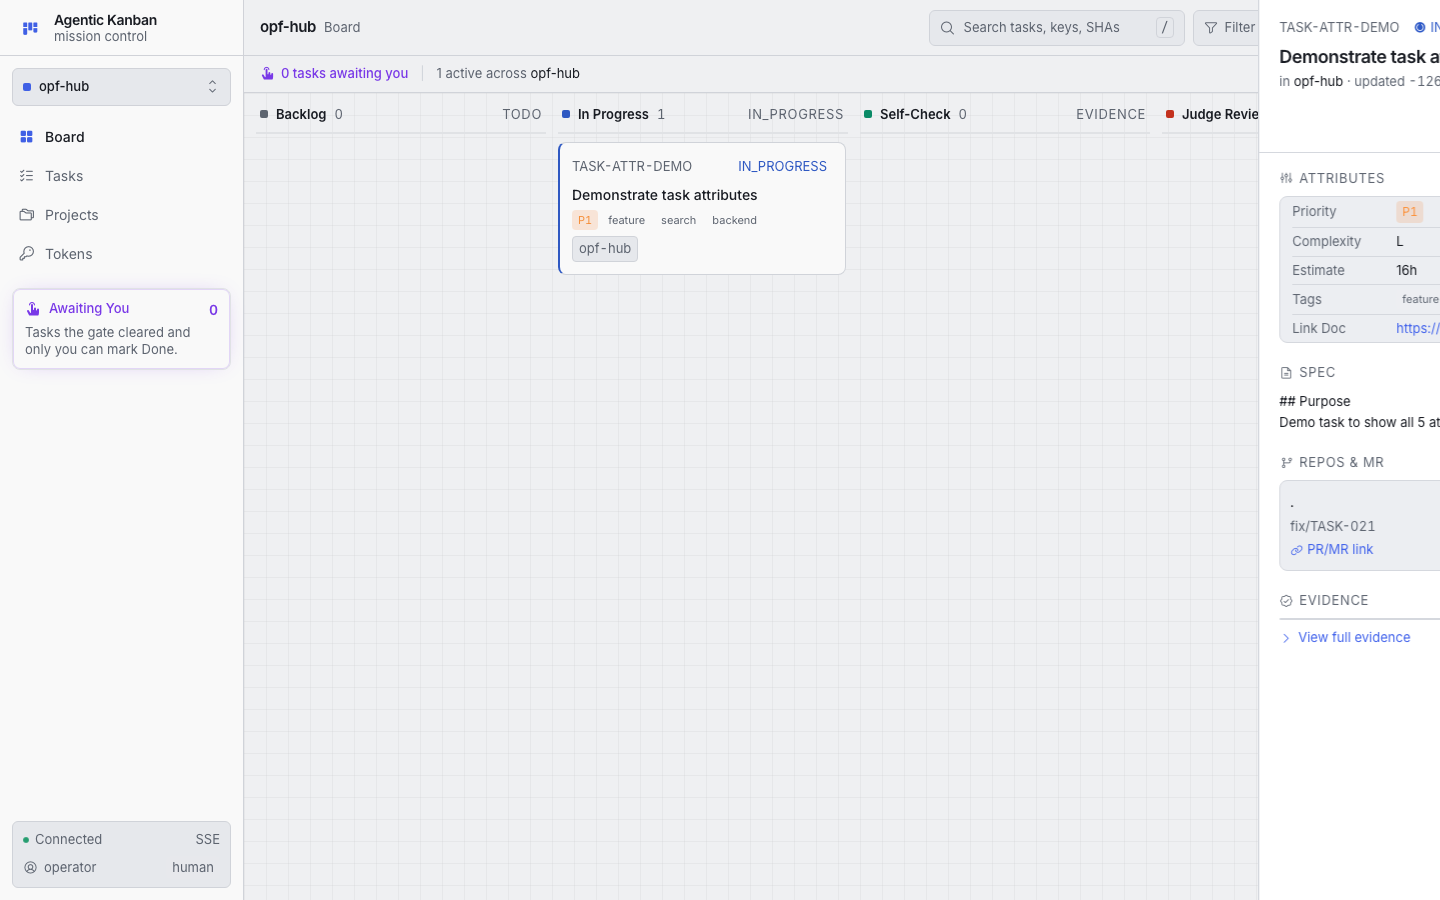
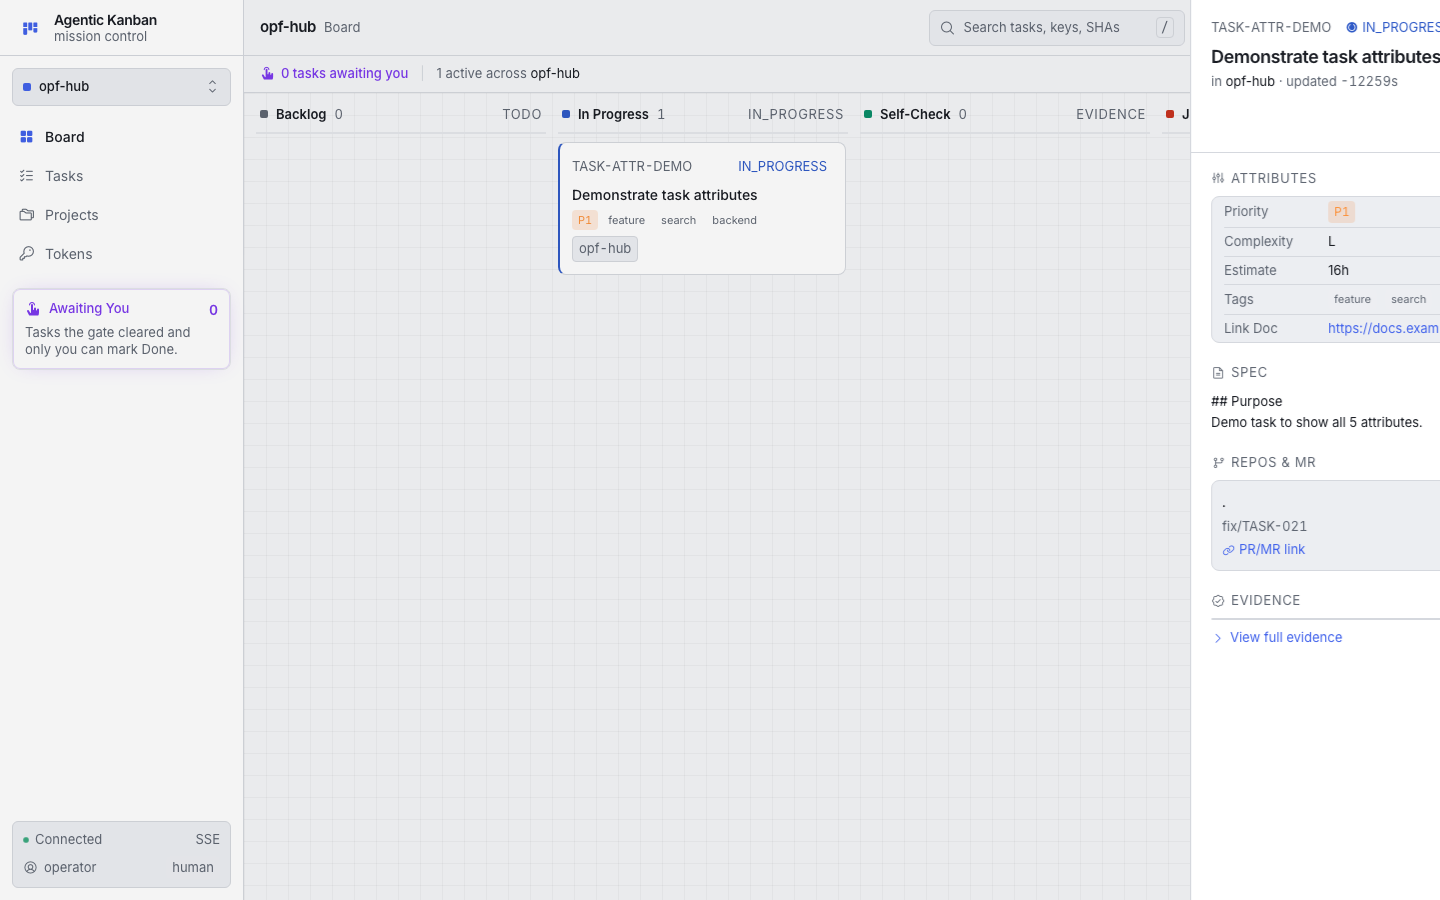
fix(TASK-021): real MCP-client tests for task.create/task.update, MCP example, honest transcript
- mcp-server.test.ts: new describe 'TASK-021 AC12' — 3 real MCP SDK client
  tests: create-with-attributes persists (response + DB row), update patches
  only requested fields (state untouched), invalid enum P9 rejected with no
  persistence.
- examples/task-attributes/example-mcp-client.mjs: rewritten as a real MCP
  client (@modelcontextprotocol/sdk StreamableHTTPClientTransport) calling
  task.create/task.update; README points at the runnable script.
- docs/api/TASK-021/agent-transcript.md: removed false claim about
  mcp-server.test.ts; section 4 now cites the real new tests with captured
  vitest output.
- commit previously-uncommitted updated screenshots (detail-attributes-view,
  detail-drawer-priority-tags).

diff --git a/server/src/mcp/mcp-server.test.ts b/server/src/mcp/mcp-server.test.ts
@@ -140,6 +140,153 @@ describe('AC10: implementer calling evidence.submit returns role error', () => {
   })
 })
 
+describe('TASK-021 AC12: task attributes via real MCP client (task.create + task.update)', () => {
+  const attrKey = 'TASK-ATTR-1'
+
+  beforeEach(() => {
+    // Clean slate: remove the attribute task between tests.
+    db.prepare(`DELETE FROM task WHERE key = ?`).run(attrKey)
+  })
+
+  it('task.create persists all 5 attributes (tool response + DB row)', async () => {
+    const c = await makeClient(tokens.human.secret)
+    try {
+      const res = await c.client.callTool({
+        name: 'task.create',
+        arguments: {
+          project: 'test-project',
+          key: attrKey,
+          title: 'Attribute task created via MCP',
+          priority: 'P1',
+          complexity: 'L',
+          estimate_hours: 16,
+          tags: ['feature', 'search', 'backend'],
+          link_document: 'https://docs.example.com/search-spec',
+        },
+      })
+      expect(res.isError).toBeFalsy()
+      const created = JSON.parse((res.content as any)[0].text) as Record<string, unknown>
+      expect(created.priority).toBe('P1')
+      expect(created.complexity).toBe('L')
+      expect(created.estimate_hours).toBe(16)
+      expect(JSON.parse(created.tags as string)).toEqual(['feature', 'search', 'backend'])
+      expect(created.link_document).toBe('https://docs.example.com/search-spec')
+
+      // Persistence check straight from the DB — not just the tool's echo.
+      const row = db
+        .prepare(`SELECT priority, complexity, estimate_hours, tags, link_document FROM task WHERE key = ?`)
+        .get(attrKey) as {
+          priority: string; complexity: string; estimate_hours: number
+          tags: string; link_document: string
+        }
+      expect(row.priority).toBe('P1')
+      expect(row.complexity).toBe('L')
+      expect(row.estimate_hours).toBe(16)
+      expect(JSON.parse(row.tags)).toEqual(['feature', 'search', 'backend'])
+      expect(row.link_document).toBe('https://docs.example.com/search-spec')
+    } finally {
+      await closeClient(c)
+    }
+  })
+
+  it('task.update changes attributes and leaves the others untouched', async () => {
+    const c = await makeClient(tokens.human.secret)
+    try {
+      // Seed via MCP task.create.
+      const createRes = await c.client.callTool({
+        name: 'task.create',
+        arguments: {
+          project: 'test-project',
+          key: attrKey,
+          title: 'Attribute task to update via MCP',
+          priority: 'P2',
+          complexity: 'S',
+          estimate_hours: 4,
+          tags: ['initial'],
+          link_document: 'https://docs.example.com/initial',
+        },
+      })
+      expect(createRes.isError).toBeFalsy()
+
+      // Update only priority + tags through MCP task.update.
+      const updateRes = await c.client.callTool({
+        name: 'task.update',
+        arguments: {
+          project: 'test-project',
+          key: attrKey,
+          priority: 'P0',
+          tags: ['urgent', 'initial'],
+        },
+      })
+      expect(updateRes.isError).toBeFalsy()
+      const updated = JSON.parse((updateRes.content as any)[0].text) as Record<string, unknown>
+      expect(updated.priority).toBe('P0')
+      expect(JSON.parse(updated.tags as string)).toEqual(['urgent', 'initial'])
+
+      // DB row: patched fields changed, the rest preserved.
+      const row = db
+        .prepare(`SELECT priority, complexity, estimate_hours, tags, link_document, state FROM task WHERE key = ?`)
+        .get(attrKey) as {
+          priority: string; complexity: string; estimate_hours: number
+          tags: string; link_document: string; state: string
+        }
+      expect(row.priority).toBe('P0')
+      expect(JSON.parse(row.tags)).toEqual(['urgent', 'initial'])
+      expect(row.complexity).toBe('S')
+      expect(row.estimate_hours).toBe(4)
+      expect(row.link_document).toBe('https://docs.example.com/initial')
+      // task.update must never touch state.
+      expect(row.state).toBe('TODO')
+    } finally {
+      await closeClient(c)
+    }
+  })
+
+  it('task.update rejects an invalid priority enum and persists nothing', async () => {
+    const c = await makeClient(tokens.human.secret)
+    try {
+      const createRes = await c.client.callTool({
+        name: 'task.create',
+        arguments: {
+          project: 'test-project',
+          key: attrKey,
+          title: 'Attribute task for invalid-enum test',
+          priority: 'P3',
+        },
+      })
+      expect(createRes.isError).toBeFalsy()
+
+      // Invalid enum: zod inputSchema must reject 'P9'. Depending on SDK
+      // behavior this is either a protocol InvalidParams error (callTool
+      // rejects) or an isError tool result — both count as rejection, but
+      // it must be rejected and the message must say why.
+      let rejected = false
+      let message = ''
+      try {
+        const res = await c.client.callTool({
+          name: 'task.update',
+          arguments: { project: 'test-project', key: attrKey, priority: 'P9' },
+        })
+        if (res.isError) {
+          rejected = true
+          message = (res.content as Array<{ text: string }>).map((x) => x.text).join(' ')
+        }
+      } catch (err) {
+        rejected = true
+        message = err instanceof Error ? err.message : String(err)
+      }
+      expect(rejected).toBe(true)
+      expect(message).toMatch(/invalid/i)
+
+      // Priority must be unchanged in the DB.
+      const row = db.prepare(`SELECT priority FROM task WHERE key = ?`).get(attrKey) as { priority: string }
+      expect(row.priority).toBe('P3')
+    } finally {
+      await closeClient(c)
+    }
+  })
+})
+
 describe('AC9: full happy-path lifecycle through tools', () => {
   // Each step in the lifecycle uses a fresh Client with the correct role's token.
   // The lifecycle is: TODO → IN_PROGRESS → IMPLEMENTED → SELF_CHECK_PASSED → JUDGE_PASSED.

diff --git a/docs/api/TASK-021/agent-transcript.md b/docs/api/TASK-021/agent-transcript.md
@@ -114,16 +114,49 @@ against a live deployment for integration testing.
 
 ---
 
-## 4. MCP tool verification (via vitest)
+## 4. MCP leg — real MCP-client session via vitest
 
-The MCP `task.create` and `task.update` tools are tested through the HTTP layer
-in `task-attributes.test.ts`:
-- POST `/api/tasks` → `handleCreateTask` → `insertTask` with attributes
-- PATCH `/api/tasks/:key` → `handleUpdateTask` → `updateTaskAttributes`
+**File**: `server/src/mcp/mcp-server.test.ts`, describe block
+`TASK-021 AC12: task attributes via real MCP client (task.create + task.update)`.
 
-MCP tool registration verified in `server/src/mcp/mcp-server.test.ts`:
-- `task.create` input schema includes priority, complexity, estimate_hours, tags, link_document
-- `task.update` tool is registered and callable
+These tests spin up the real MCP server (Streamable HTTP, bearer auth) and drive
+it with the SDK's `Client` + `StreamableHTTPClientTransport` — a genuine MCP
+session, not the HTTP API:
+
+1. **`task.create persists all 5 attributes (tool response + DB row)`** —
+   calls `task.create` over MCP with priority=P1, complexity=L,
+   estimate_hours=16, tags=[feature,search,backend], link_document URL;
+   asserts the tool response fields AND the persisted DB row match.
+2. **`task.update changes attributes and leaves the others untouched`** —
+   creates via MCP, then calls `task.update` (priority→P0, tags→[urgent,initial]);
+   asserts the patched fields changed in the DB and complexity/estimate/link
+   /state are unchanged.
+3. **`task.update rejects an invalid priority enum and persists nothing`** —
+   calls `task.update` with priority=P9; asserts the MCP call is rejected with
+   an "invalid"-class error and the DB row still holds P3.
+
+**Command**: `pnpm vitest run server/src/mcp/mcp-server.test.ts --reporter=verbose`
+**Captured output** (2026-06-10, worktree `fix/TASK-021-task-attributes`):
+
+```
+ RUN  v2.1.9 .../worktree/fix/TASK-021-task-attributes
+
+ ✓ server/src/mcp/mcp-server.test.ts > AC8: MCP SDK client connects over Streamable HTTP with bearer token > connects and lists tools when given a valid bearer token
+ ✓ server/src/mcp/mcp-server.test.ts > AC8: MCP SDK client connects over Streamable HTTP with bearer token > rejects unauthenticated requests
+ ✓ server/src/mcp/mcp-server.test.ts > AC10: implementer calling evidence.submit returns role error > refuses evidence.submit from a non-runner role
+ ✓ server/src/mcp/mcp-server.test.ts > TASK-021 AC12: task attributes via real MCP client (task.create + task.update) > task.create persists all 5 attributes (tool response + DB row)
+ ✓ server/src/mcp/mcp-server.test.ts > TASK-021 AC12: task attributes via real MCP client (task.create + task.update) > task.update changes attributes and leaves the others untouched
+ ✓ server/src/mcp/mcp-server.test.ts > TASK-021 AC12: task attributes via real MCP client (task.create + task.update) > task.update rejects an invalid priority enum and persists nothing
+ ✓ server/src/mcp/mcp-server.test.ts > AC9: full happy-path lifecycle through tools > drives TODO → IN_PROGRESS → IMPLEMENTED → SELF_CHECK_PASSED → JUDGE_PASSED
+
+ Test Files  1 passed (1)
+      Tests  7 passed (7)
+   Duration  557ms
+```
+
+In addition, `examples/task-attributes/example-mcp-client.mjs` is a runnable
+MCP client (`@modelcontextprotocol/sdk`) that performs the same
+`task.create` → `task.update` flow against a live server.
 
 ---
 

diff --git a/examples/task-attributes/README.md b/examples/task-attributes/README.md
@@ -8,6 +8,17 @@ attributes via the `task.create` and `task.update` tools.
 - A running agentic-kanban server with MCP endpoint.
 - A valid bearer token (obtain via the sign-in flow or `POST /api/tokens`).
 
+## Runnable script
+
+`example-mcp-client.mjs` is a complete, runnable MCP client (connects over
+Streamable HTTP, calls `task.create` with all 5 attributes, then `task.update`):
+
+```bash
+# from the repo root (so @modelcontextprotocol/sdk resolves)
+TASK_HUB_URL=http://localhost:3000 TASK_TOKEN=<bearer token> \
+  node examples/task-attributes/example-mcp-client.mjs
+```
+
 ## Example: Create a task with attributes
 
 ```javascript
